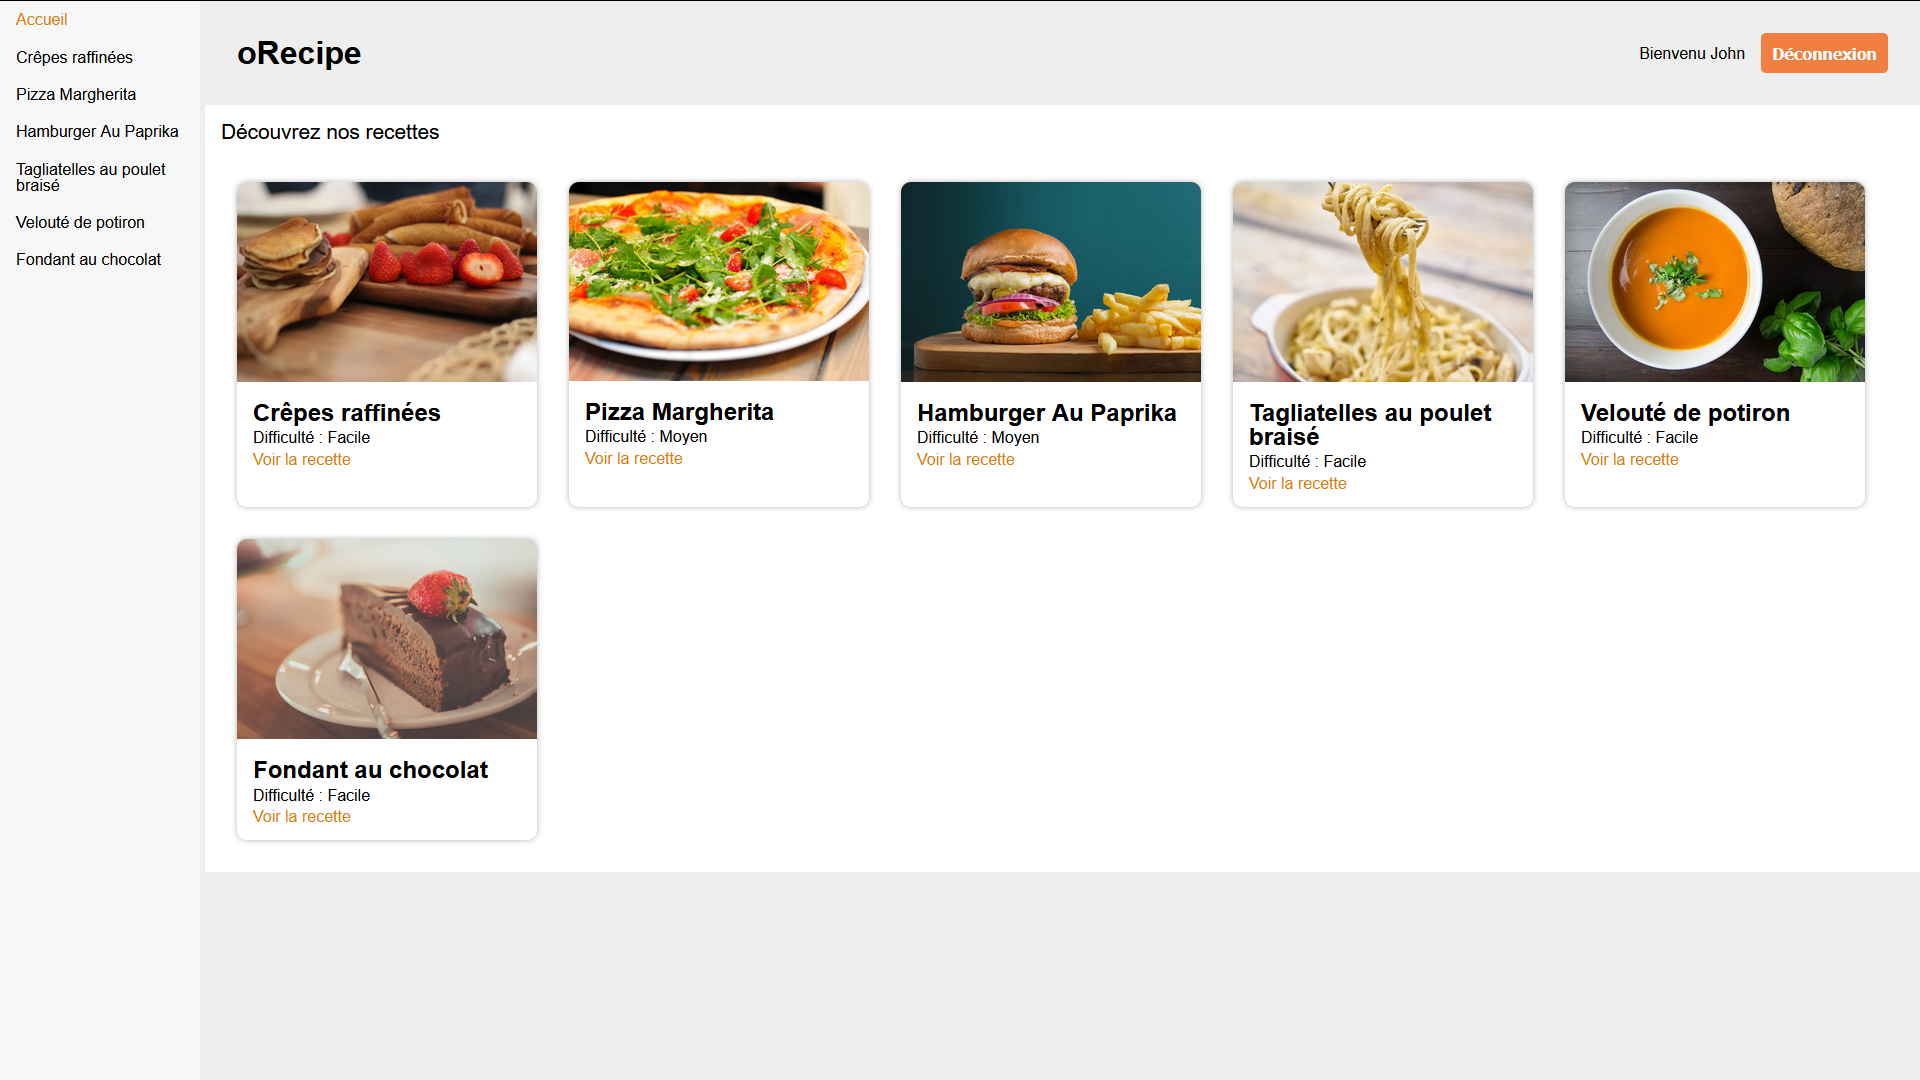
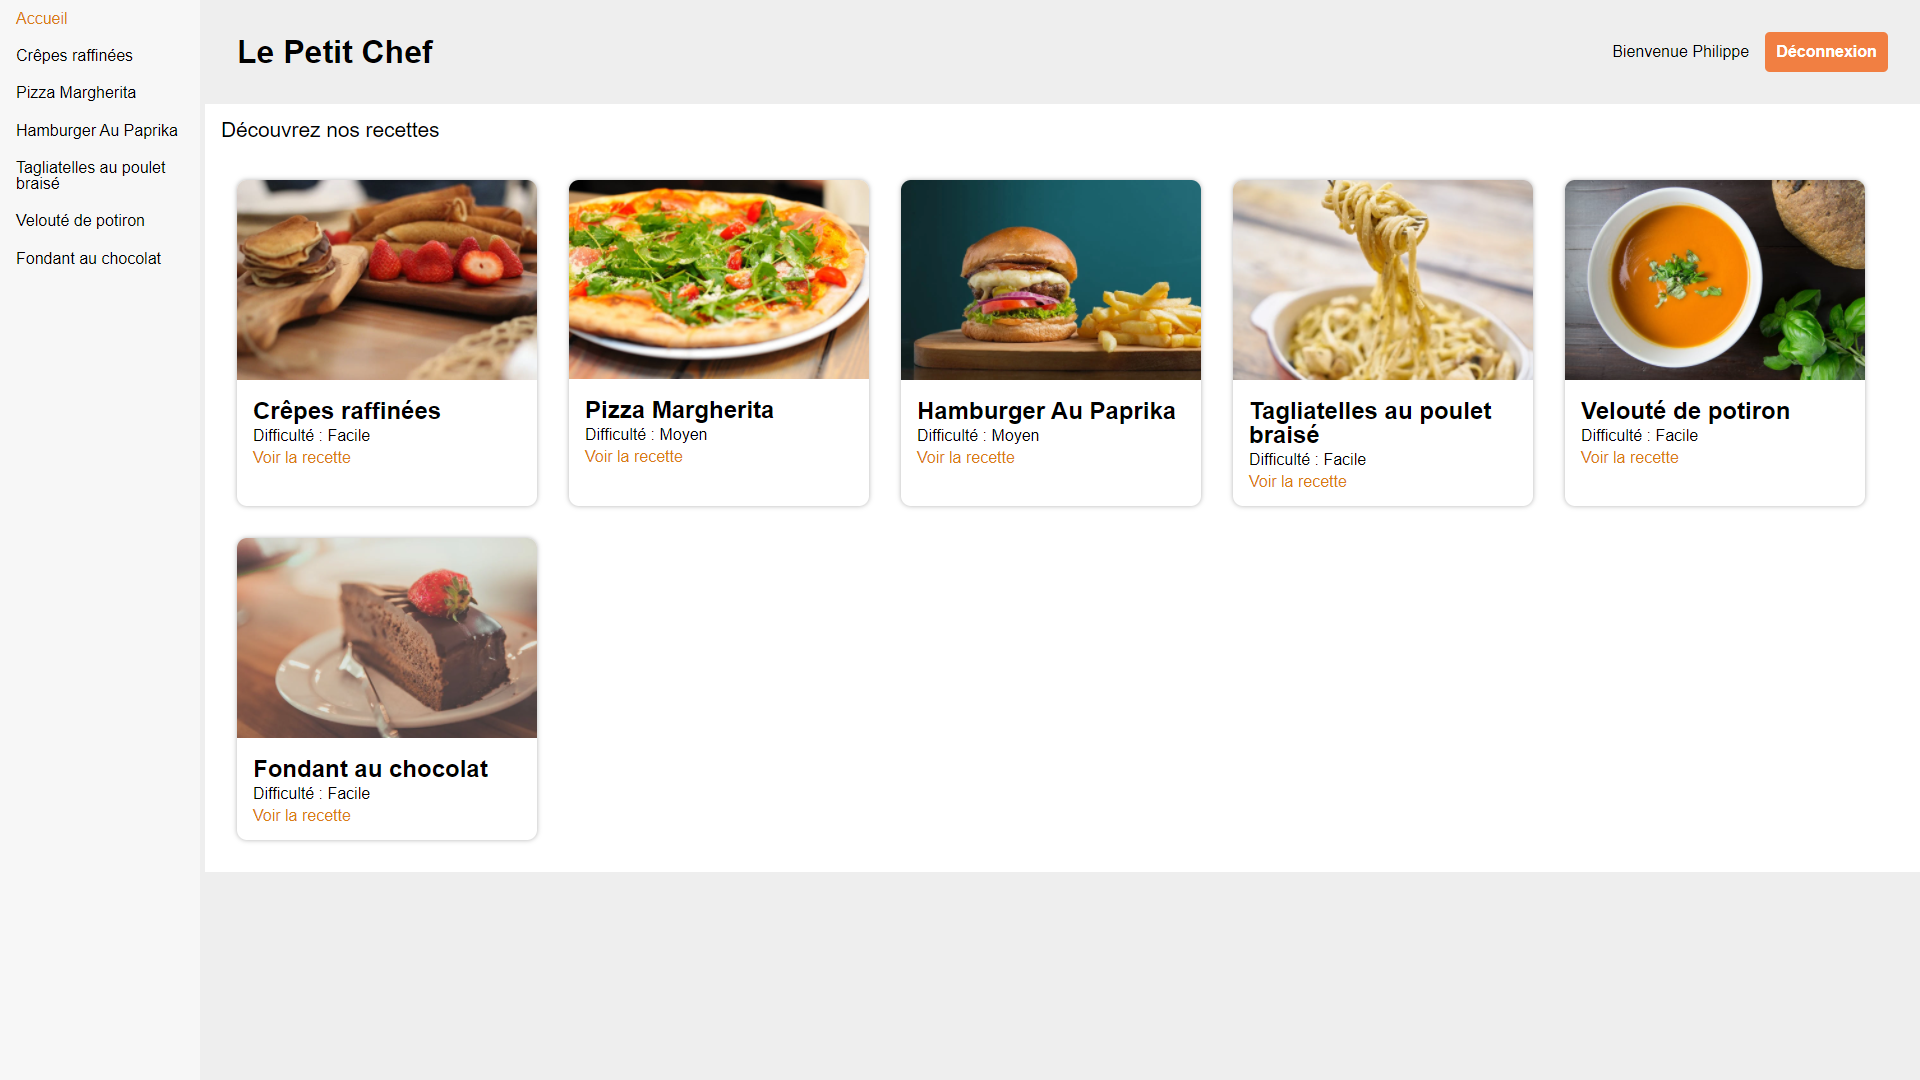
fix

diff --git a/src/selectors/user.js b/src/selectors/user.js
@@ -1,2 +1,2 @@
 /* eslint-disable import/prefer-default-export */
-export const getLoggedMessage = (user) => user.infos && `Bienvenu ${user.infos.pseudo}`;
+export const getLoggedMessage = (user) => user.infos && `Bienvenue ${user.infos.pseudo}`;

diff --git a/src/components/Title/index.js b/src/components/Title/index.js
@@ -5,7 +5,7 @@ import './styles.scss';
 
 const Title = () => (
   <div className="title">
-    <h1>oRecipe</h1>
+    <h1>Le Petit Chef</h1>
     <LoginForm />
   </div>
 );
